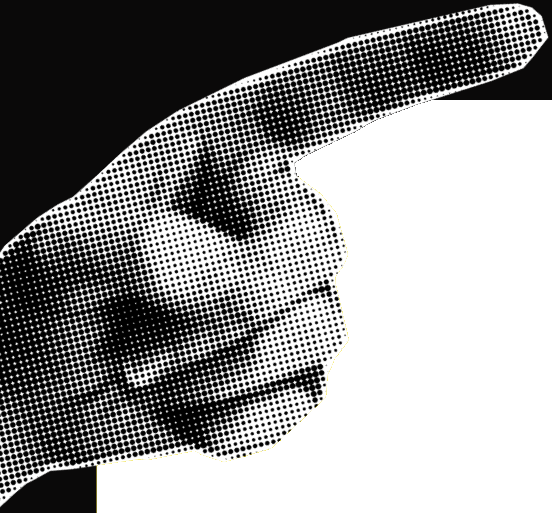
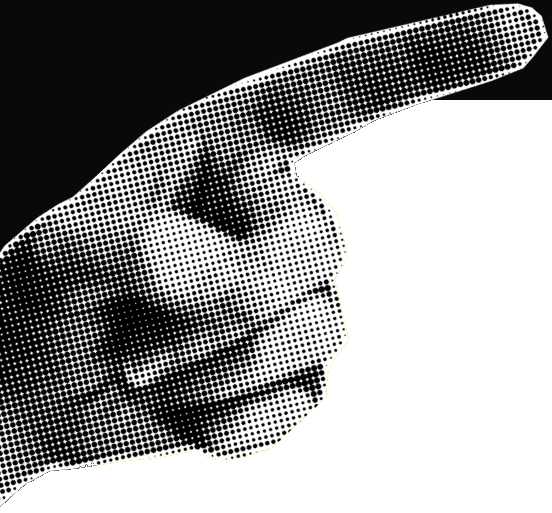
Mobile grid and hand fix

Changed region(s): [[0.0, 0.9045, 0.1848, 1.0]]

diff --git a/styles.css b/styles.css
@@ -97,6 +97,7 @@ img { display: block; max-width: 100%; }
   display: grid; grid-template-columns: 21.8vw 22.4vw 1fr;
 }
 .project a { display: block; }
+.project__logoBox { display: block; }
 .project__logo { height: auto; transition: transform .2s ease; }
 .project__logo--foster { width: 21.1vw; margin-left: -0.35vw; }
 .project__logo--spassim { width: 10.2vw; margin-left: 4.5vw; margin-top: -0.7vw; }
@@ -108,34 +109,59 @@ img { display: block; max-width: 100%; }
 .project a:hover .project__logo { transform: translateY(-3px); }
 
 /* ---------- Tablet / mobile ---------- */
+/* One grid: --g is the side gutter. Logo, nav, squiggle, headline, buttons
+   and project texts all start on the left gutter line; the photo group and
+   the "Get in Touch" button end on the right one. */
 .br-d { display: inline; }
 @media (max-width: 900px) {
+  :root { --g: clamp(24px, 8.8vw, 48px); --squig: 34px; }
   .br-d { display: none; }
-  .site-header { height: auto; padding: 20px 20px 0; display: flex; flex-wrap: wrap; align-items: center; justify-content: space-between; row-gap: 16px; }
+  main { overflow-x: clip; }
+
+  /* Header */
+  .site-header {
+    height: auto; padding: 24px var(--g) 0;
+    display: grid; grid-template-columns: 1fr auto; align-items: center; row-gap: 20px;
+  }
   .logo, .nav { position: static; }
   .site-header .btn--brush { position: relative; left: auto; top: auto; }
   .logo { font-size: 48px; }
-  .nav { order: 3; width: 100%; justify-content: space-between; font-size: 17px; gap: 12px; }
-  .btn, .btn--text { font-size: 17px; }
-  .btn--brush, .site-header .btn--brush { width: 170px; height: 52px; }
-  .btn--text { height: 52px; }
+  .nav { grid-column: 1 / -1; grid-row: 2; justify-content: flex-start; gap: 28px; font-size: 20px; }
+  .btn, .btn--text { font-size: 18px; }
+  .btn--brush, .site-header .btn--brush { width: 176px; height: 56px; justify-self: end; }
+  .btn--text { height: 56px; }
 
-  .hero { flex-direction: column; height: auto; padding: 32px 20px 0 44px; }
-  .hero__photo { width: min(300px, 70vw); }
-  .hero__img { height: auto; aspect-ratio: 364 / 480; }
-  .hero__squiggle { left: -34px; top: -4px; height: 102%; }
+  /* Hero */
+  .hero { display: block; height: auto; padding: 28px var(--g) 0; }
+  .hero__photo { width: auto; margin-left: var(--squig); }
+  .hero__img { width: 100%; height: auto; aspect-ratio: 364 / 480; }
+  .hero__squiggle { left: calc(var(--squig) * -1); top: 0; height: 100%; width: auto; }
   .hero__text { margin: 28px 0 0; }
-  .hero__name { font-size: 16px; }
+  .hero__name { font-size: 18px; }
   .hero__title { margin-top: 24px; font-size: clamp(30px, 8.5vw, 46px); }
-  .hero__lead { margin-top: 22px; font-size: 17px; }
-  .hero__actions { margin: 24px 0 0; gap: 28px; flex-wrap: wrap; }
+  .hero__lead { margin-top: 20px; font-size: 18px; }
+  .hero__actions { margin: 20px 0 0; gap: 28px; flex-wrap: nowrap; }
+  .hero__actions .btn--brush { width: 176px; }
 
-  .projects { overflow: visible; margin: 120px 0 0; height: auto; padding: 150px 20px 48px; }
-  .projects__hand { width: 230px; left: -20px; top: -100px; }
-  .projects__list { position: static; display: grid; grid-template-columns: 1fr; row-gap: 36px; }
-  .project__logo--foster { width: min(300px, 80vw); margin: 0; }
-  .project__logo--spassim { width: 140px; margin: 0; }
-  .project__logo--mood { width: min(320px, 85vw); margin: 0; }
-  .project p, .project--foster p, .project--spassim p, .project--mood p { margin-top: 14px; font-size: 17px; max-width: 24em; }
+  /* Projects: the hand is mirrored so it points left at "View Projects" */
+  .projects {
+    margin: 84px 0 0; height: auto;
+    padding: 150px var(--g) 56px;
+  }
+  .projects__hand {
+    left: auto; right: 0; bottom: auto;
+    top: -75px; width: 232px;
+    transform: scaleX(-1);
+  }
+  .projects__list { position: static; display: grid; grid-template-columns: 1fr; row-gap: 40px; }
+  .project__logo { height: auto; margin: 0; }
+  .project a { display: flex; flex-direction: column; }
+  .project__logoBox { height: 72px; display: flex; align-items: center; }
+  .project__logo--foster { width: min(252px, 100%); }
+  .project__logo--spassim { width: 126px; }
+  .project__logo--mood { width: min(290px, 100%); }
+  .project p, .project--foster p, .project--spassim p, .project--mood p {
+    margin: 16px 0 0; max-width: 22em; font-size: 18px;
+  }
 }
 @media (prefers-reduced-motion: reduce) { html { scroll-behavior: auto; } * { transition: none !important; } }

diff --git a/index.html b/index.html
@@ -41,19 +41,19 @@
       <ul class="projects__list">
         <li class="project project--foster">
           <a href="#projects">
-            <img class="project__logo project__logo--foster" src="assets/fosterlink.png" alt="FosterLink">
+            <span class="project__logoBox"><img class="project__logo project__logo--foster" src="assets/fosterlink.png" alt="FosterLink"></span>
             <p>Helping animals find safe temporary homes and connecting them with caring people.</p>
           </a>
         </li>
         <li class="project project--spassim">
           <a href="#projects">
-            <img class="project__logo project__logo--spassim" src="assets/spassim.png" alt="Spassim Team">
+            <span class="project__logoBox"><img class="project__logo project__logo--spassim" src="assets/spassim.png" alt="Spassim Team"></span>
             <p>Bringing people together through exciting adventures and unforgettable shared experiences.</p>
           </a>
         </li>
         <li class="project project--mood">
           <a href="#projects">
-            <img class="project__logo project__logo--mood" src="assets/mindfullmood.png" alt="MindfullMood">
+            <span class="project__logoBox"><img class="project__logo project__logo--mood" src="assets/mindfullmood.png" alt="MindfullMood"></span>
             <p>Helping people understand their emotions, practice mindfulness, and find inner balance.</p>
           </a>
         </li>
